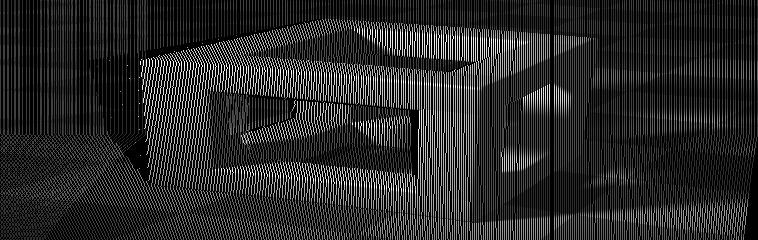
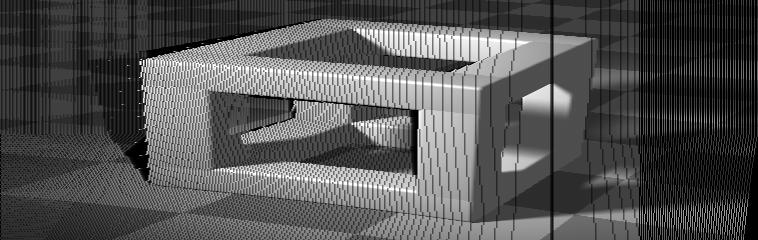
Finished octave script. Tried to convert it to python, but it's SUPER frustrating (python)

diff --git a/Ben/depthConverter.m b/Ben/depthConverter.m
@@ -63,7 +63,7 @@ for i = 1:width
 		#Right Image Loop:
 		depth = r_depth_scaling(i,j);
 
-		if(j < eye_displacement - 1)
+		if(j < eye_displacement + 1)
 			orientation = -1;
 		else
 			orientation = 1;
@@ -74,6 +74,20 @@ for i = 1:width
 	endfor
 endfor
 
+for k = 1:2
+for i = 1:width
+	for j = 2:(2*height - 1)
+		if(right(i,j) == 0)
+			right(i,j) = (right(i,j - 1) + right(i,j + 1))/2;
+		endif
+
+		if(left(i,j) == 0)
+			left(i,j) = (left(i,j - 1) + left(i,j + 1))/2;
+		endif
+	endfor
+endfor
+endfor
+
 subplot(121);
 imshow(mat2gray(left));
 subplot(122);
@@ -81,54 +95,6 @@ imshow(mat2gray(right));
 
 imwrite(mat2gray(right),'right.jpg');
 imwrite(mat2gray(left),'left.jpg');
-
-
-#{
-left_screen = zeros(width,p_density*f*tan(theta));
-right_screen = zeros(width,p_density*f*tan(theta));
-
-left_screen = [screen left_screen];
-right_screen = [right_screen screen];
-
-subplot(241);
-imshow(screen);
-subplot(245);
-imshow(left_screen);
-subplot(248);
-imshow(right_screen);
-
-imwrite(left_screen,'left.jpg');
-imwrite(right_screen,'right.jpg');
-
-width_adjusted = floor(width/cos(theta))
-cols_alloc = width_adjusted - width;
-#imshow(screen);
-
-left_screen = zeros(2*width,height);
-
-horizontalAllocation = floor(1e5*normpdf(1:width,0,200));
-#horizontalAllocation = 90*horizontalAllocation/sum(horizontalAllocation);
-
-epsilon = 0;
-i = 1;
-do
-	epsilon = sum(nonzeros(horizontalAllocation))/(size(nonzeros(horizontalAllocation))(1));
-	horizontalAllocation(horizontalAllocation < epsilon) = 0;
-	horizontalAllocation = 90*horizontalAllocation/sum(horizontalAllocation);
-	i = i + 1;
-	if(i == 10000)
-		#plot(horizontalAllocation);
-		#horizontalAllocation
-	endif
-until(all(nonzeros(horizontalAllocation) > 1))
-
-
-plot(horizontalAllocation);
-
-ugh = screen(1:width,1:(height/3));
-ugh2 = imresize(ugh,3);
-imshow(ugh,[],'XData',[0 0.5],'YData',[0 .1]);
-#}
 
 while 1
 endwhile

diff --git a/Ben/depthConverter.py b/Ben/depthConverter.py
@@ -1,0 +1,43 @@
+import numpy as np
+import matplotlib.image as mpimg
+import matplotlib.pyplot as plt
+from skimage import color
+from skimage.transform import downscale_local_mean
+
+image_name = 'Cubic_Structure.jpg'
+depth_name = 'Cubic_Depth.jpg'
+
+screen = color.rgb2gray(mpimg.imread(image_name))
+screen = downscale_local_mean(screen,(10,10))
+#To adjust "correctly" we need two parameters, theta (the angle apart from the eyes)
+#and the focal distance (how far back the eyes are)
+theta = np.pi/6
+f = 2
+
+#We need a pixel density parameter, I don't know this for sure, but let's assume:
+p_density = 75
+
+width = screen.shape[0]
+height = screen.shape[1]
+
+eye_displacement = np.floor(p_density*f*np.tan(theta))
+
+depth = color.rgb2gray(mpimg.imread(depth_name))
+depth = downscale_local_mean(depth,(10,10))
+depth = depth/(255*4) + 0.25
+
+l_depth_scaling = np.matlib.repmat(list(range(int(height - eye_displacement)))[::-1] + list(range(int(eye_displacement))),width,1)
+r_depth_scaling = np.matlib.repmat(list(range(int(eye_displacement)))[::-1] + list(range(int(height - eye_displacement))),width,1)
+
+#l_depth_scaling = np.multiply(l_depth_scaling,np.array(depth))
+for i in range(l_depth_scaling.shape[0]):
+	for j in range(l_depth_scaling.shape[1]):
+		l_depth_scaling[i,j] = l_depth_scaling[i,j]*depth[i,j]
+
+l_depth_scaling = l_depth_scaling / l_depth_scaling.max() + 1
+r_depth_scaling = r_depth_scaling / r_depth_scaling.max() + 1
+
+
+
+plt.imshow(l_depth_scaling,cmap='Greys',interpolation='nearest')
+plt.show()
